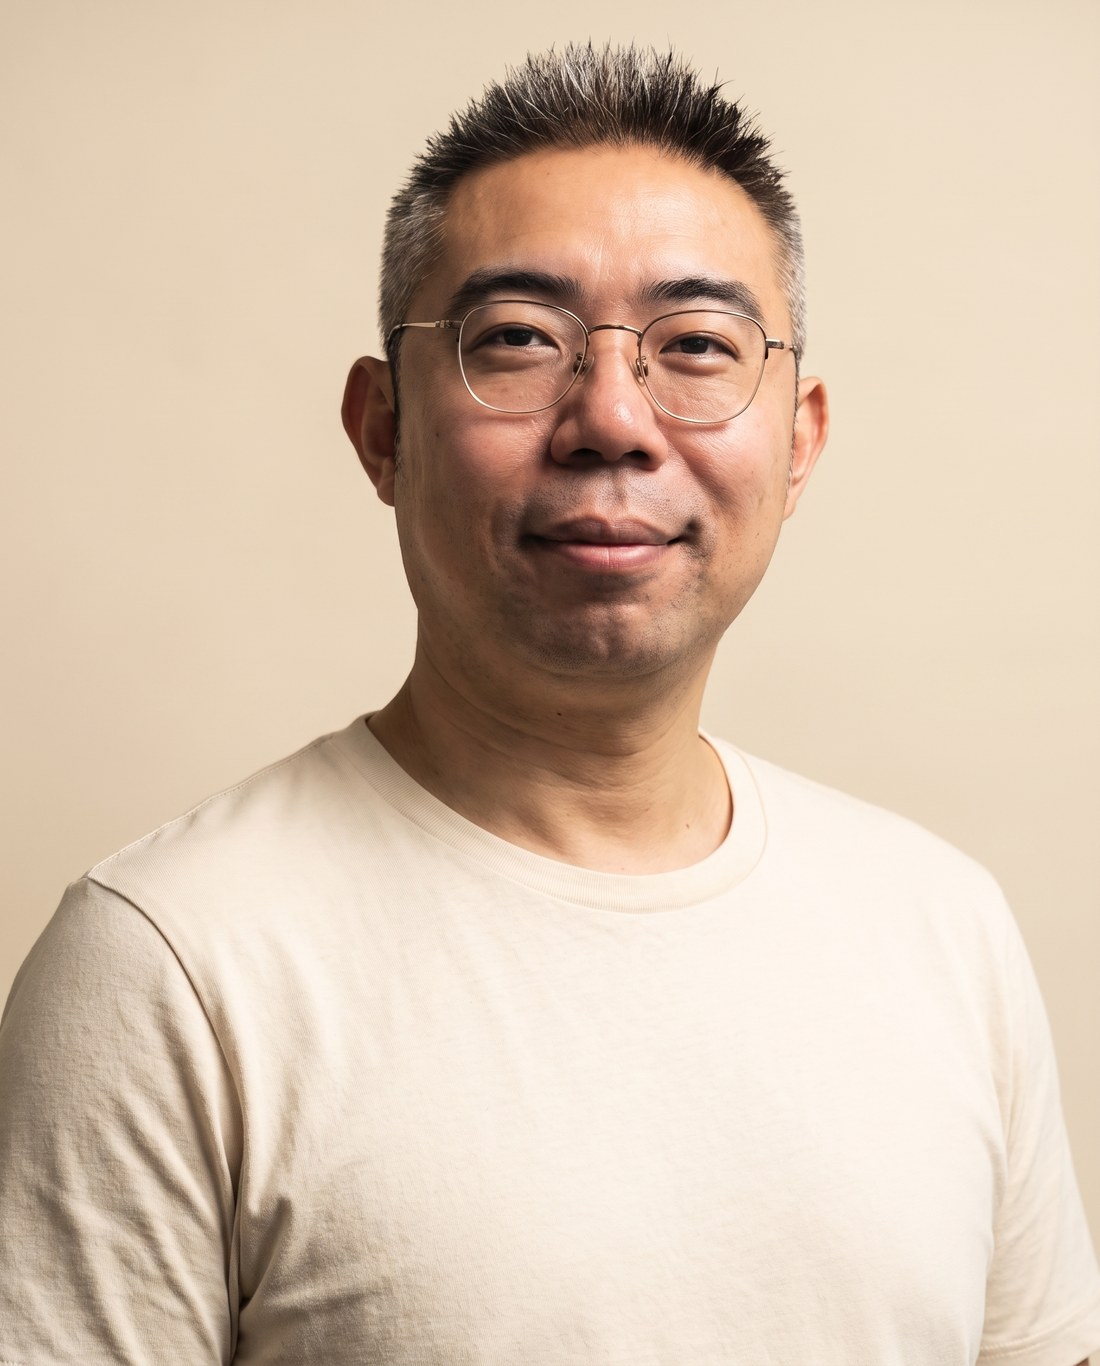
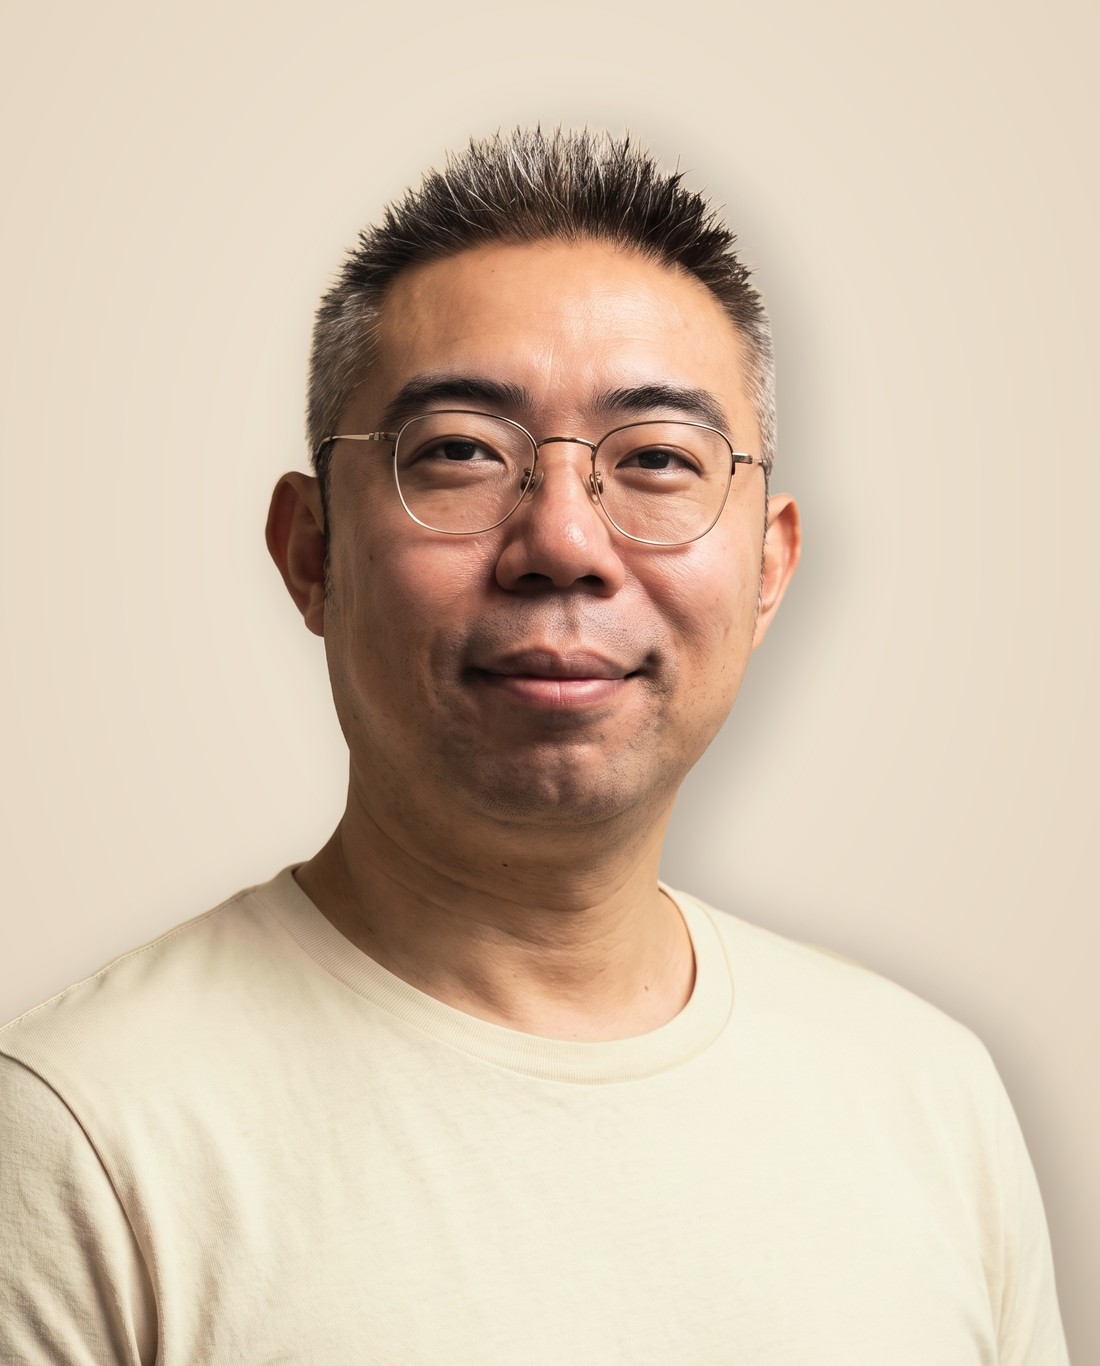
Team portraits as one matched set; the download button large and central
The four portraits share a backdrop, a head size and a centre, and the two
shirt colours are identical across people (tools/match_portraits.py, from
background-removed cutouts and the Mac's face detector). The Download PDF
button in the export is bottom centre and large: at the corner it went unseen.

diff --git a/tools/faces.swift b/tools/faces.swift
@@ -1,0 +1,13 @@
+import Foundation
+import Vision
+import AppKit
+for path in CommandLine.arguments.dropFirst() {
+    guard let img = NSImage(contentsOfFile: path), let cg = img.cgImage(forProposedRect: nil, context: nil, hints: nil) else { print("\(path) unreadable"); continue }
+    let req = VNDetectFaceRectanglesRequest()
+    try? VNImageRequestHandler(cgImage: cg, options: [:]).perform([req])
+    let f = (req.results ?? []).max(by: { $0.boundingBox.width < $1.boundingBox.width })
+    if let b = f?.boundingBox {
+        // Vision's origin is bottom-left; report x, top, w, h as fractions from the top-left
+        print("\(path) \(b.minX) \(1 - b.maxY) \(b.width) \(b.height)")
+    } else { print("\(path) none") }
+}

diff --git a/tools/match_portraits.py b/tools/match_portraits.py
@@ -1,0 +1,55 @@
+"""Make the four portraits one set: same backdrop, same head size and position,
+and the two shirt colours identical across people."""
+import sys, cv2, numpy as np
+from PIL import Image, ImageFilter
+OUT_W, OUT_H = 1100, 1366
+FACE_W, FACE_CX, FACE_TOP = 0.47, 0.50, 0.23      # of the output
+PURPLE = np.array([47, 27, 80.0])                 # the site's deep purple, as cloth
+CREAM = np.array([232, 222, 200.0])
+people = {"jesse": "purple", "ryan": "cream", "logan": "purple", "gino": "cream"}
+# face boxes from the Mac's Vision detector (faces.swift): x, top, w, h as fractions
+FACES = {"jesse": (0.3250, 0.2088, 0.3825, 0.3081), "ryan": (0.3223, 0.1770, 0.3416, 0.2752),
+         "logan": (0.2738, 0.1938, 0.4122, 0.3321), "gino": (0.3392, 0.1558, 0.4272, 0.3441)}
+
+def backdrop():
+    y, x = np.mgrid[0:OUT_H, 0:OUT_W].astype(np.float32)
+    d = np.sqrt(((x - OUT_W * .5) / (OUT_W * .75)) ** 2 + ((y - OUT_H * .38) / (OUT_H * .8)) ** 2)
+    t = np.clip(d, 0, 1)[..., None]
+    return (np.array([243, 232, 216.0]) * (1 - t) + np.array([226, 211, 190.0]) * t)
+
+for name, shirt in people.items():
+    im = Image.open(f"{name}.png").convert("RGBA")
+    a = np.asarray(im).astype(np.float32); rgb, alpha = a[..., :3], a[..., 3] / 255
+    X, Y, Wd, Hd = FACES[name]
+    fx, fy, fw, fh = X * im.width, Y * im.height, Wd * im.width, Hd * im.height
+    hsv = cv2.cvtColor(rgb.astype(np.uint8), cv2.COLOR_RGB2HSV).astype(np.float32)
+    H, S_, V = hsv[..., 0] * 2, hsv[..., 1] / 255, hsv[..., 2] / 255
+    below = np.zeros_like(alpha, bool); below[int(fy + fh * 0.95):, :] = True
+    if shirt == "purple":
+        m = below & (alpha > .5) & (H > 235) & (H < 335) & (S_ > .18)
+        target = PURPLE
+    else:
+        m = below & (alpha > .5) & (S_ < .24) & (V > .5)
+        target = CREAM
+    mean = rgb[m].mean(0)
+    gain = target / mean
+    soft = cv2.GaussianBlur(m.astype(np.float32), (0, 0), 4)[..., None]
+    rgb2 = np.clip(rgb * (1 + (gain - 1) * soft), 0, 255)
+    print(f"{name}: face {fw}px at x {fx + fw / 2:.0f}/{im.width}; shirt mean {mean.round()} -> {target}; mask {m.mean():.2%}")
+    # place on the common backdrop
+    scale = FACE_W * OUT_W / fw
+    cut = Image.fromarray(np.dstack([rgb2, alpha * 255]).astype(np.uint8)).resize((round(im.width * scale), round(im.height * scale)), Image.LANCZOS)
+    ox = round(FACE_CX * OUT_W - (fx + fw / 2) * scale); oy = round(FACE_TOP * OUT_H - fy * scale)
+    # the source frame must cover the output, or a shoulder ends in a straight cut
+    ox = min(0, max(ox, OUT_W - cut.width)); 
+    if oy + cut.height < OUT_H: sys.exit(f"{name}: body ends above the frame")
+    bg = Image.fromarray(backdrop().astype(np.uint8), "RGB").convert("RGBA")
+    # a soft shadow of the figure on the backdrop
+    sh = Image.new("RGBA", bg.size, (0, 0, 0, 0)); sil = Image.new("RGBA", cut.size, (60, 40, 30, 0)); sil.putalpha(cut.getchannel("A").point(lambda v: int(v * .28)))
+    sh.alpha_composite(sil, (max(ox + 26, ox), oy + 14) if ox + 26 <= 0 else (ox, oy + 14)); bg.alpha_composite(sh.filter(ImageFilter.GaussianBlur(28)))
+    bg.alpha_composite(cut, (ox, oy))
+    bg.convert("RGB").save(f"team-{name}.jpg", quality=90)
+    print(f"   placed at x {ox}, covers to {ox + cut.width} of {OUT_W}; face centre lands at {(ox + (fx + fw / 2) * scale) / OUT_W:.2f}")
+row = Image.new("RGB", (4 * 560 + 30, 695), "white")
+for k, n in enumerate(people): row.paste(Image.open(f"team-{n}.jpg").resize((560, 695)), (k * 570, 0))
+row.resize((1135, 347)).save("row.jpg", quality=88)

diff --git a/decks_export.py b/decks_export.py
@@ -29,9 +29,11 @@ DECKS = {
     "coffee": ("coffee", "Wonder-Robotics-coffee-bar.pdf"),
     "company": ("company", "Wonder-Robotics-introduction.pdf"),
 }
-DOWNLOAD = ('<a class="dl-pdf" href="{pdf}" download style="position:fixed;left:14px;bottom:12px;z-index:60;'
-            "font:500 12px/1 'Geist Mono',ui-monospace,Menlo,monospace;letter-spacing:.06em;text-transform:uppercase;"
-            'text-decoration:none;color:#F3F1E4;background:#4A2FD9;border-radius:8px;padding:12px 16px">Download PDF</a>\n'
+# Bottom centre and large: at the corner in small type it went unseen.
+DOWNLOAD = ('<a class="dl-pdf" href="{pdf}" download style="position:fixed;left:50%;transform:translateX(-50%);bottom:16px;z-index:60;'
+            "font:500 15px/1 'Geist Mono',ui-monospace,Menlo,monospace;letter-spacing:.06em;text-transform:uppercase;white-space:nowrap;"
+            'text-decoration:none;color:#F3F1E4;background:#4A2FD9;border-radius:10px;padding:16px 26px;'
+            'box-shadow:0 6px 24px rgba(20,10,36,.45)">&darr;&nbsp; Download PDF</a>\n'
             "<style>@media print{{.dl-pdf{{display:none !important}}}}</style>\n")
 
 
